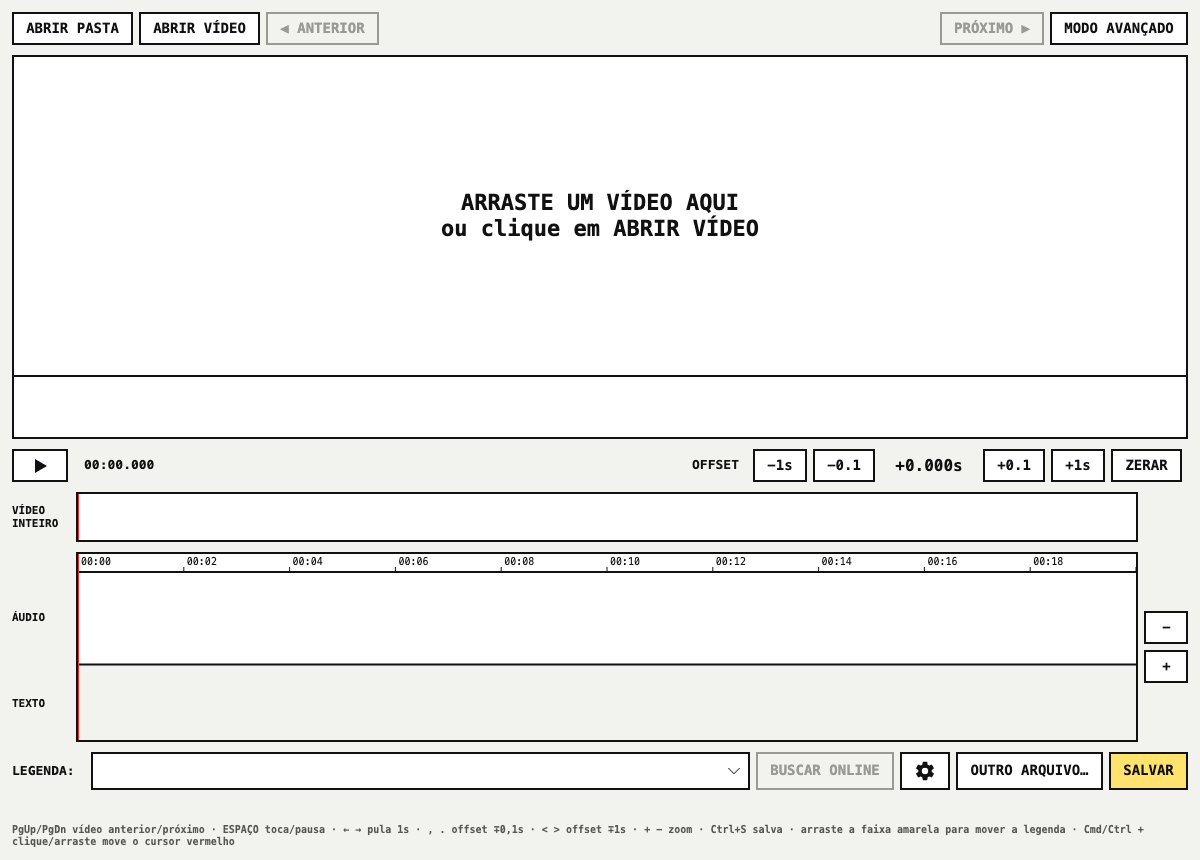
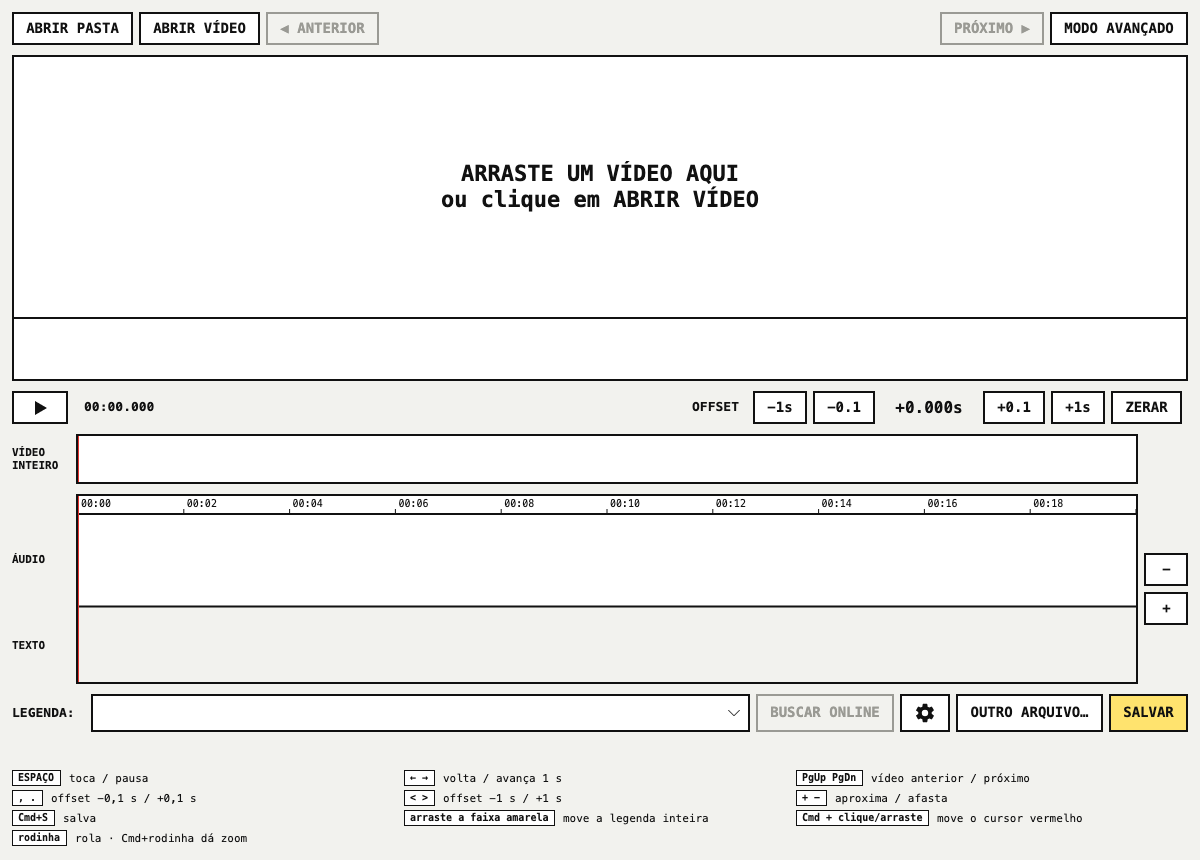
Simple mode: shortcuts as a list under the window
The one-line help ("PgUp/PgDn prev/next video · SPACE play/pause · …") is
now a three-column list: the keys in a box, then what they do. Cmd on macOS,
Ctrl elsewhere.

Claude-Session: https://claude.ai/code/session_016i9HhykoDPTa3qBuRNXJPf

diff --git a/src/ui/Features/Simple/SimpleStrings.cs b/src/ui/Features/Simple/SimpleStrings.cs
@@ -40,7 +40,8 @@ public sealed class SimpleStrings
     public required string CouldNotLoadSubtitle { get; init; }
     public required string ImageTracksSkipped { get; init; }
     public required string AdvancedMode { get; init; }
-    public required string Help { get; init; }
+    /// <summary>Keyboard and mouse shortcuts: (keys, what they do). "Mod" is Cmd on macOS, Ctrl elsewhere.</summary>
+    public required (string Keys, string What)[] Shortcuts { get; init; }
     public required string UnsavedChanges { get; init; }
     public required string NoVideoPlayer { get; init; }
     public required string LinesCount { get; init; }
@@ -106,7 +107,19 @@ public sealed class SimpleStrings
         CouldNotLoadSubtitle = "Could not read this subtitle.",
         ImageTracksSkipped = "Image subtitles (PGS/VobSub) need OCR: use the advanced mode.",
         AdvancedMode = "ADVANCED MODE",
-        Help = "PgUp/PgDn prev/next video · SPACE play/pause · ← → seek 1s · , . offset ∓0.1s · < > offset ∓1s · + − zoom · Ctrl+S save · drag the yellow lane to move the subtitle · Cmd/Ctrl + click/drag moves the red cursor",
+        Shortcuts =
+        [
+            ("SPACE", "play / pause"),
+            ("← →", "back / forward 1 s"),
+            ("PgUp PgDn", "previous / next video"),
+            (", .", "offset −0.1 s / +0.1 s"),
+            ("< >", "offset −1 s / +1 s"),
+            ("+ −", "zoom in / out"),
+            ("Mod+S", "save"),
+            ("drag yellow lane", "move the whole subtitle"),
+            ("Mod + click/drag", "move the red cursor"),
+            ("wheel", "scroll · Mod+wheel zooms"),
+        ],
         UnsavedChanges = "unsaved",
         NoVideoPlayer = "Video player not found. Install mpv (see README).",
         LinesCount = "{0} · {1} lines",
@@ -173,7 +186,19 @@ public sealed class SimpleStrings
         CouldNotLoadSubtitle = "Não deu para ler essa legenda.",
         ImageTracksSkipped = "Legendas de imagem (PGS/VobSub) precisam de OCR: use o modo avançado.",
         AdvancedMode = "MODO AVANÇADO",
-        Help = "PgUp/PgDn vídeo anterior/próximo · ESPAÇO toca/pausa · ← → pula 1s · , . offset ∓0,1s · < > offset ∓1s · + − zoom · Ctrl+S salva · arraste a faixa amarela para mover a legenda · Cmd/Ctrl + clique/arraste move o cursor vermelho",
+        Shortcuts =
+        [
+            ("ESPAÇO", "toca / pausa"),
+            ("← →", "volta / avança 1 s"),
+            ("PgUp PgDn", "vídeo anterior / próximo"),
+            (", .", "offset −0,1 s / +0,1 s"),
+            ("< >", "offset −1 s / +1 s"),
+            ("+ −", "aproxima / afasta"),
+            ("Mod+S", "salva"),
+            ("arraste a faixa amarela", "move a legenda inteira"),
+            ("Mod + clique/arraste", "move o cursor vermelho"),
+            ("rodinha", "rola · Mod+rodinha dá zoom"),
+        ],
         UnsavedChanges = "não salvo",
         NoVideoPlayer = "Player de vídeo não encontrado. Instale o mpv (veja o README).",
         LinesCount = "{0} · {1} falas",

diff --git a/src/ui/Features/Simple/SimpleWindow.cs b/src/ui/Features/Simple/SimpleWindow.cs
@@ -277,9 +277,7 @@ public class SimpleWindow : Window
         status.Bind(TextBlock.TextProperty, new Binding(nameof(SimpleViewModel.StatusText)));
         status.TextTrimming = TextTrimming.CharacterEllipsis;
         Avalonia.Automation.AutomationProperties.SetAutomationId(status, "Status");
-        var help = BrutalTheme.Label(strings.Help, 10);
-        help.Opacity = 0.7;
-        help.TextWrapping = TextWrapping.Wrap;
+        var help = ShortcutList(strings.Shortcuts);
 
         var root = new Grid
         {
@@ -511,6 +509,38 @@ public class SimpleWindow : Window
         {
             await _vm.OpenFolderAsync(path);
         }
+    }
+
+    /// <summary>The shortcuts as a list in three columns: the keys in a box, then what they do.</summary>
+    private static Control ShortcutList((string Keys, string What)[] shortcuts)
+    {
+        var mod = OperatingSystem.IsMacOS() ? "Cmd" : "Ctrl";
+        var grid = new Avalonia.Controls.Primitives.UniformGrid { Columns = 3, Margin = new Thickness(0, 2, 0, 0) };
+        foreach (var (keys, what) in shortcuts)
+        {
+            var key = new Border
+            {
+                BorderBrush = BrutalTheme.Ink,
+                BorderThickness = new Thickness(1),
+                Background = BrutalTheme.Paper,
+                Padding = new Thickness(5, 1),
+                Margin = new Thickness(0, 0, 8, 0),
+                VerticalAlignment = VerticalAlignment.Center,
+                Child = BrutalTheme.Label(keys.Replace("Mod", mod), 10),
+            };
+            var text = BrutalTheme.Label(what.Replace("Mod", mod), 11);
+            text.FontWeight = FontWeight.Normal;
+            text.TextTrimming = TextTrimming.CharacterEllipsis;
+            grid.Children.Add(new DockPanel
+            {
+                Margin = new Thickness(0, 2, 12, 2),
+                Children = { key, text },
+            });
+            DockPanel.SetDock(key, Dock.Left);
+        }
+
+        Avalonia.Automation.AutomationProperties.SetAutomationId(grid, "Shortcuts");
+        return grid;
     }
 
     private Button NudgeButton(string text, double seconds, string id)
